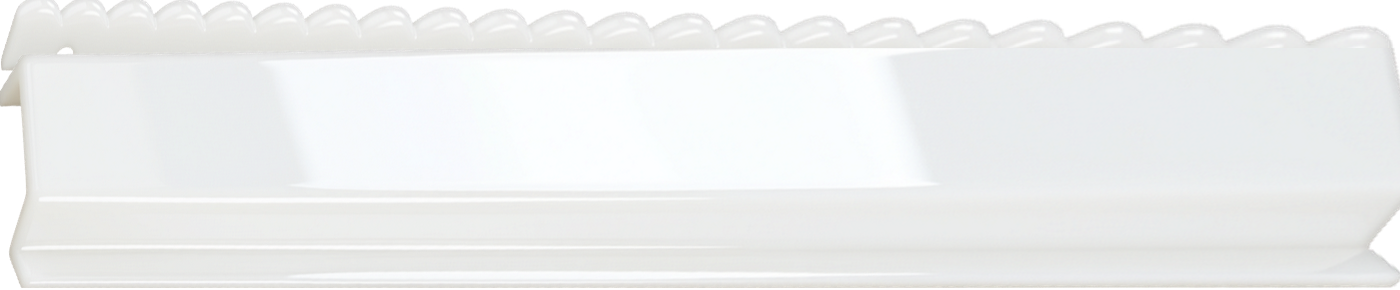
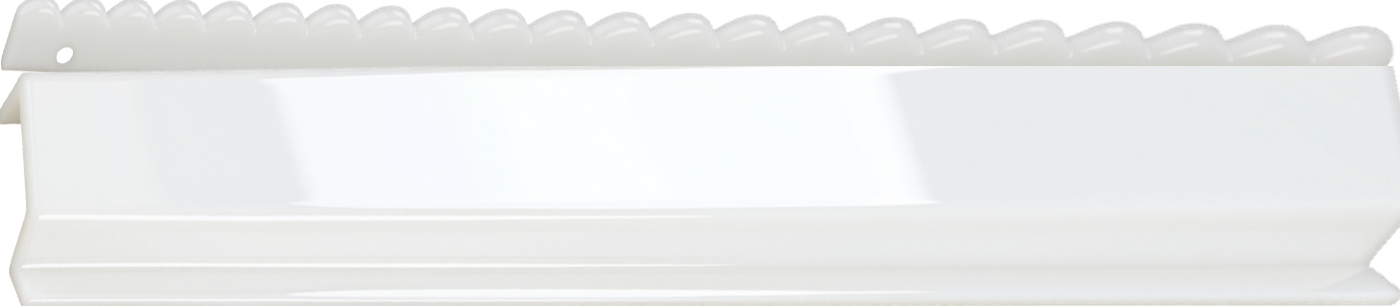
Racks all the same width (true_len off, Nov 23 rule), M&M scallop strip taller, Gigi light blue (held)
Claude-Session: https://claude.ai/code/session_01QxwYQtmWcAr4s5uYJYP3mA

diff --git a/scripts/albumcard/gen2.py b/scripts/albumcard/gen2.py
@@ -71,6 +71,7 @@ tpl = open(os.path.join(os.path.dirname(os.path.abspath(__file__)), 'card2.html'
 logos = json.load(open(R + 'builder/logos/map.json'))
 BBLOGO = uri(R + 'builder/logos/' + logos['Bird & Bamboo'], 'PNG')
 NAVY = uri(R + spec.get('navy', 'assets/brand/card_navy_logo_v2.png'), 'PNG')  # Nov 6: spec 'navy' = another navy logo box (Juniper: current flame-heart wordmark)
+# Nov 23 2026 (Tiffany): SUPERSEDED for new albums: 'I just want all the racks to just be lined up' = every rack the SAME width on the card (true_len False); rack length vs tile size is handled by which racks we recommend, not by drawing them shorter.
 # Nov 6 (Tiffany, Juniper round 3): spec 'true_len' -> every rack with a known length (config/rack-lengths.json) is drawn at its
 # REAL relative length: the rack body (trough, measured by rack_body.py) = inches / 18.5 x the old body length.
 TL = json.load(open(R + 'config/rack-lengths.json'))['inches'] if spec.get('true_len') else {}

diff --git a/scripts/albumcard/specs/sadie_jane_build.py b/scripts/albumcard/specs/sadie_jane_build.py
@@ -92,7 +92,7 @@ for c in A['mats']:
                 'code': code, 'src': c['img'], 'racks': TRACKS, 'mat_racks': mr, 'why': c['why'], 'fym': c.get('fym'), 'lowres': c.get('lowres'),
                 'caption_note': note, 'rack_notes': rnotes})
 json.dump({'_note': f'{KEY} album DRAFT (Nov 21)', 'cards': cards, 'max_racks': 4, 'tile_brand': 'Oh My Mahjong',
-           'navy': 'assets/brand/card_navy_logo_v3.png', 'true_len': True}, open(W + '/spec.json', 'w'))
+           'navy': 'assets/brand/card_navy_logo_v3.png', 'true_len': False}, open(W + '/spec.json', 'w'))
 json.dump({'set': CC['name'], 'status': "DRAFT: Claude's own picks, pending Tiffany's review", 'groups': A['groups'], 'cards': man,
            'title_color': CC['col'], 'tile': CC['tile'],
            'racks_note': 'tile racks = Bird & Bamboo Shell Pink + French Blue (draft); mat racks = matpick nearest Bird & Bamboo colours'},

diff --git a/scripts/racks/mm_milk_glass_linear.py b/scripts/racks/mm_milk_glass_linear.py
@@ -15,5 +15,8 @@ def warp(q, w, h): return src.transform((w, h), Image.PERSPECTIVE, coeffs([(0, 0
 W = 1400
 body = warp([(28, 212), (1345, 190), (1400, 358), (72, 477)], W, 240)
 push = warp([(0, 0), (1345, 138), (1345, 186), (0, 92)], W, 84)
-out = Image.new('RGBA', (W, 290), (0, 0, 0, 0)); out.alpha_composite(push, (0, 0)); out.alpha_composite(body, (0, 48))
+# Nov 23 11:09am (Tiffany: 'hard to see the scallop'): the pusher stands 66px above the rack (was 48) and is toned 4% so the scalloped strip separates from the body
+import numpy as _np
+_p = _np.asarray(push).astype(float); _p[..., :3] *= 0.955; push = Image.fromarray(_p.astype('uint8'), 'RGBA')
+out = Image.new('RGBA', (W, 308), (0, 0, 0, 0)); out.alpha_composite(push, (0, 0)); out.alpha_composite(body, (0, 66))
 out.save(R + 'assets/racks/card/middle--main-milk-glass-scalloped-linear.png', optimize=True)

diff --git a/docs/ANSWERS.md b/docs/ANSWERS.md
@@ -1654,3 +1654,4 @@ Tiffany: tabletop room images look AI, don't want them. Use the clean flat/aeria
 - 2026-11-23 10:49-10:50am Tiffany (Sadie Jane part 6, the put-ins; docs/albums/sadie-jane/rack-notes-2026-11-23.md): RULES: a SCALLOPED mat shows its scalloped edge (corner view; only exception to edge-to-edge); Mahj & Moon mats are always cut out of their bamboo background (site-wide check on the new docs/USE-THE-USAGE.md list = spare-usage jobs); every rack on a card is the same width and lines up; the mat maker's rack only when it is the best / a solid match; don't just match the dominant colour (pull an accent); learn each brand's rack line incl. marble / two-tone / iridescent. DONE: Color Wave corner view + Dark Blue + opal scallop, placed after Refined Blue with Paradise Teal behind it (db order v372); Desert Blooms = My Fair Macaron Pink (peach) + PLM Dark Green; Pink Hummingbird = opal scallop + B&B Tiffany Dusk (head colour measured); Roseveil = Virora Hot Pink Hinged + Virora Spring Jade; Pink Wildflower cut out of the bamboo; Peppermint Patty = milk glass + Virora Pink (a scalloped light pink exists). NEW real rack cut-outs: Virora Hot Pink / Pink / Purple Hinged, Virora Pink / Purple / Maldives Green (scalloped wood). PLM Light Pink rack image rebuilt with its front ledge. Review page: 3 cards across on a wide screen. Page v13 published 11:15am.
 - 2026-11-23 10:56-11:02am Tiffany (Sadie Jane parts 7-8; docs/albums/sadie-jane/rack-notes-2026-11-23.md): CUT Soirée at Sue's + Pressed Flowers; Charleston blush leather = Virora Spring Jade + B&B Peach Metallic, ordered with the solids (after Paradise Teal; db order v373); Blushing Blooms = Anders Ruff MAHJenta Pink Scalloped (new: straightened from their real photo) + Virora Pink; Blue Blooms pulled down; Heron = Miss Mahjong opal + peach sorbet scallops (from every earlier album; never Pink Quartz); Vivara = OMM Hot Pink + OMM White Acrylic; Pink Hummingbird opal + Tiffany Dusk APPROVED; Virora Hot Pink on Roseveil APPROVED. Macaron Pink colour test: cut-out was peachier (#FECFCC) than My Fair's swatch (#FFCDD7): corrected. COVER rebuilt with the straight capital J (album_cover_omm.py now loads the local font). RULES: publish in ONE batch and tell her when done ('I don't like to have my view changed'); RACK LENGTH vs TILE SIZE: Virora scalloped racks are 19in; larger tiles (Miss Mahjong, Sunday) need 20in; read the tile size on the listing for every tile set; racks look better with the pusher closed. Soft cards: hi-res sweep on OVERDUE (Kerry fixed). Page v14 published 11:35am.
 - 2026-11-23 11:04-11:08am Tiffany: (1) put-ins go into the NORMAL order at the end (holiday with holiday); she does not order with 'Move to #': DONE db order v374 + page v15, she reorders from there. (2) RULE white scallops: bright white = Middle & Main milk glass scallop; off-white / ivory / very light beige = Miss Mahjong iridescent opal scallop. M&Moon Pink & Blue Grandmillennial -> opal scallop (spec changed; card rebuild + publish HELD until she taps Done: she is ordering).
+- 2026-11-23 11:09-11:10am Tiffany: (1) racks still not the same length (Middle & Main scallop, Mahjong Register Peacock Teal 'a hair shorter'): CAUSE = the build still drew racks at true relative length (Nov 6 Juniper rule, spec true_len). Her Nov 23 rule supersedes it: every rack the same width; true_len off in the Sadie Jane build + noted in gen2. (2) She asked to recolour Miss Mahjong's opal scallop white and call it Middle & Main (thinks M&M's scallops look wrong / too many). CHECKED Middle & Main's 7 listing photos: their real pusher has about 20 small scallops (Miss Mahjong has about 11 large), so our render IS their rack; relabelling Miss Mahjong's shape would show buyers a rack M&M does not sell: NOT done; instead the scalloped strip now stands taller and is toned so it reads. Told her. (3) Gigi = Peachy + a light blue (Claude's call between cornflower scallop / icy blue). All held for her Done tap.
